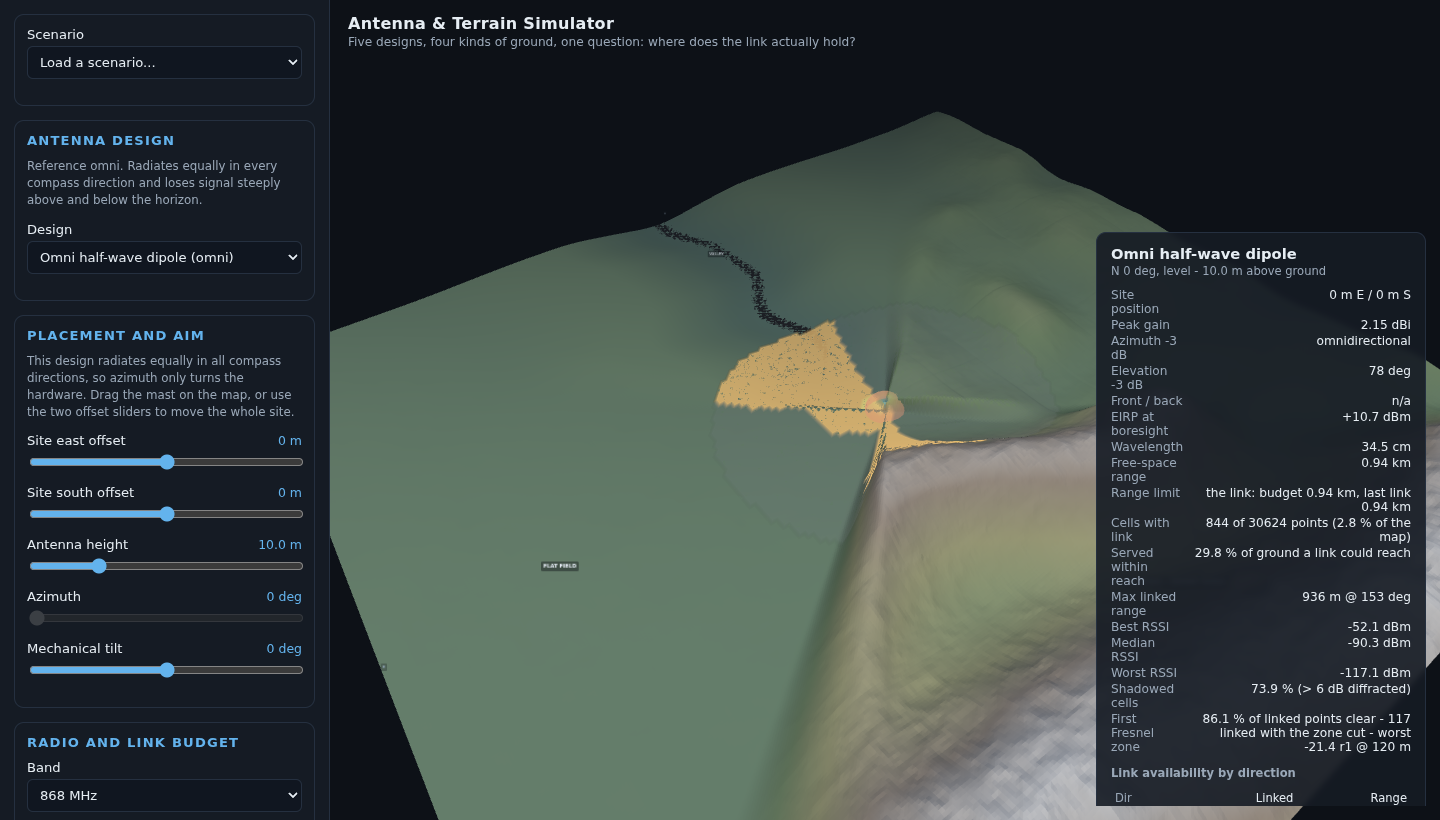
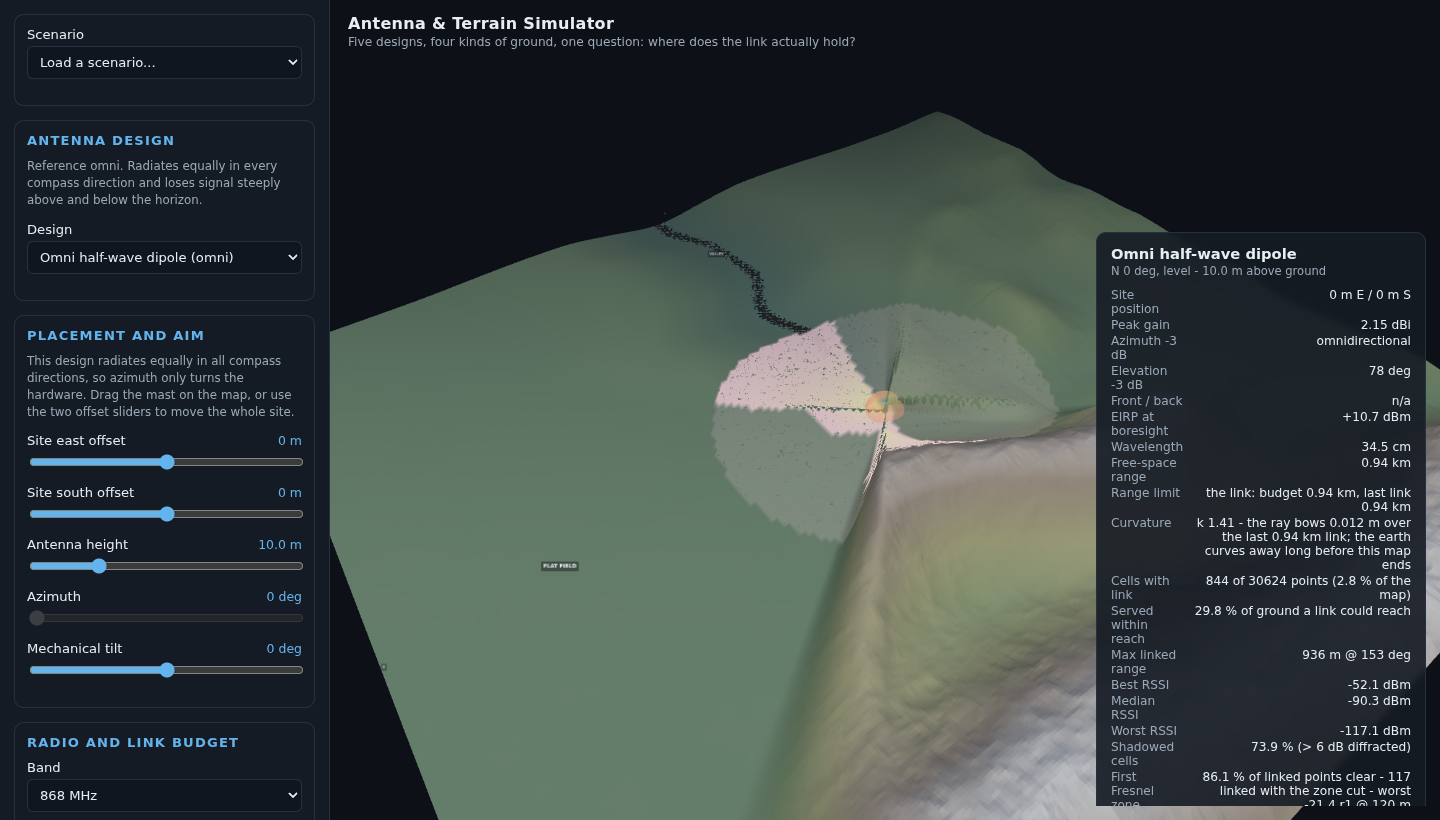
taskman: complete step-020 — antenna-physics-and-range-gradient: four screenshots, captions rewritten from the pixels

Changed region(s): [[0.75, 0.6098, 1.0, 1.0], [0.5, 0.3963, 0.7188, 0.6707], [0.7812, 0.6098, 0.8125, 0.6402]]

diff --git a/README.md b/README.md
@@ -13,11 +13,15 @@ it, while the mountain, the valley and every other hill stay exactly where they
 are: the map never reshapes itself to suit the antenna. Put the mast on a ridge and
 it stands on the ridge, with the ground falling away beside it.
 
-![An omni dipole at the centre of a 5.2 km map. The solid patch south-east of the mast is
-where the link holds; the faint band along the escarpment is ground the sweep asked about
-and lost to the terrain; the rest of the map is bare because the antenna's own budget
-cannot reach it, so it was never measured. The read-out says the same in words: "the link:
-budget 0.94 km, last link 0.94 km", "844 of 30624 points (2.8 % of the map)".](docs/screenshot.png)
+![An omni dipole at the centre of a 5.2 km map, painted in the range gradient: a warm
+core right at the mast, pale yellow as the link's margin shrinks, and pink for the points
+that only just make the receiver - which is almost the whole lit area, because this budget
+is 0.94 km and there is nowhere to hide. The wide pale band beyond the pink is ground the
+sweep asked about and lost to the terrain, painted faint on purpose; beyond that the map is
+bare, because the antenna's own budget cannot reach it and it was never measured. The
+read-out says the same thing in words: "the link: budget 0.94 km, last link 0.94 km", "844
+of 30624 points (2.8 % of the map)", "29.8 % of ground a link could reach", and under it
+"Curvature - k 1.41, the ray bows 0.012 m over the last 0.93 km link".](docs/screenshot.png)
 
 ## Run it
 
@@ -184,7 +188,7 @@ limited by a bad link can be told apart from one limited by a URL that asked for
 impossible. `?range=99999&siteX=99999` on a 5.2 km map, for instance, applies 3800 m and
 2500 m and says so.
 
-![The valley scenario: a 10-director Yagi aimed south, its beam holding all the way down the valley floor to 2.5 km and dying in the middle of the map, while the mountain side stays dark.](docs/screenshot-valley.png)
+![The valley scenario in the range gradient: a 10-director Yagi aimed south, yellow where the link has room near the mast, pale yellow down the valley floor, and pink as it dies at 2.48 km of a 2.50 km budget - in the middle of the map, not at its edge. The mountain side stays bare.](docs/screenshot-valley.png)
 
 ## The five designs
 
@@ -347,7 +351,13 @@ The gradient is there because the bands hide the thing people actually read off 
 the default configuration the banded view paints 828 of the 844 linked cells in *one*
 colour (the remaining 16 are a band higher); the gradient splits the same 828 into 6 strong,
 56 weaker and 782 at the limit, and that split is the difference between "it links"
-and "it links, this far, with this much to spare". The scale is deliberately absolute:
+and "it links, this far, with this much to spare".
+
+| ![The valley scenario in the signal-bands view: 1963 of its 2024 linked points are one colour, because they all land between -80 and -65 dBm; 59 are a band brighter, 2 a band above that.](docs/screenshot-bands.png) | ![The same scenario, same sweep, same 2024 linked points, in the range gradient: 20 strong near the mast, 207 with room to spare, 1797 at the dying pink rim.](docs/screenshot-valley.png) |
+| --- | --- |
+| *signal bands* | *range gradient* |
+
+The scale is deliberately absolute:
 `RF.gradientMaxMarginDb` is 30 dB of margin, not "the best cell on this map", because a
 ramp that quietly re-normalises itself to whatever is on screen makes two screenshots of
 two different links incomparable. 30 dB is measured, not chosen - over the disc a link
@@ -449,7 +459,7 @@ largest zone the antenna has to keep clear anywhere it is looking. Its radius is
 widened by a fixed factor so it is visible next to a five-kilometre map; at
 `FRESNEL.radialExaggeration: 1` you would see the truth, which is a hairline.
 
-![The same valley scenario in the Fresnel-zone view: the drape is painted by zone clearance instead of signal level, and the pale tube is the first zone of the boresight link.](docs/screenshot-fresnel.png)
+![The same valley scenario again, this time in the Fresnel-zone view: the drape is green where the ground leaves the first zone clear and amber where it eats into it (98.9 % of the linked points are clear - an open valley is good real estate), and the pale translucent band along the boresight is the zone volume itself. Every number in the read-out is identical to the valley picture above: this is a different question about the same sweep.](docs/screenshot-fresnel.png)
 
 Green keeps at least 60 % of the first zone clear, amber is partly cut, purple is
 cut outright - the ground stands above the ray. The zone legend also carries the

diff --git a/.taskman/antenna-physics-and-range-gradient/step-020/step.md b/.taskman/antenna-physics-and-range-gradient/step-020/step.md
@@ -26,3 +26,29 @@ captions describe those pixels.
 
 <!-- Step-specific details found during execution are appended here as bullet
      points. This section starts empty and is append-only. -->
+
+- Server detached on 8080, four shots at 1440x820 via `node tools/browser.js shot` (each
+  behind `tools/timebox.js`), then all four read back with the image tool and every caption
+  rewritten from the pixels:
+  - `docs/screenshot.png` - default scene, so now the **range gradient**: warm core at the
+    mast, pink over nearly the whole lit disc (honest for a 0.94 km budget), wide faint band
+    of asked-and-lost ground, bare map beyond; HUD legible down to the new **Curvature**
+    row, quoted in the caption.
+  - `docs/screenshot-valley.png` - `?preset=valley-reach`, yellow core running into pale
+    yellow down the valley floor and a pink rim where the link dies; HUD shows 10 directors,
+    10.69 dBi, F/B 26.0 dB, budget 2.50 km, last link 2.48 km @ 181 deg, 2024 points
+    (6.6 % of the map, 84.4 % of reachable ground), bulge 0.085 m, 98.9 % zone-clear.
+  - **new** `docs/screenshot-bands.png` - `?preset=valley-reach&view=bands`, the same scene
+    and the same HUD numbers, and the entire linked area in one flat orange. Referenced once
+    in *What the colours can mean*, in a two-column table opposite the gradient shot.
+  - `docs/screenshot-fresnel.png` - `?preset=valley-reach&fresnel=1`: green drape with amber
+    where the zone is partly cut, plus the translucent zone volume along the boresight.
+- Measured the exact bucket counts for the valley scene so the two captions quote numbers
+  rather than impressions (the same script path as step-019): bands `0 / 2 / 59 / 1963`
+  linked plus 374 faint and 28 226 unmeasured; gradient `20 / 207 / 1797` linked plus the
+  same 374 and 28 226. Both add to 2024 linked and 30 624 accounted ✓ - the caption claim
+  "1963 of its 2024 linked points are one colour" is the measured figure, and my first draft
+  ("all 2024") was wrong and is what the measurement was for.
+- Server and browser stopped (`browser.js stop --all` also cleaned 8 orphaned renderer
+  processes; `staticserver.js stop`), port 8080 confirmed dead.
+- `git status --short`: only the four `docs/*.png`, `README.md` and the task files.
